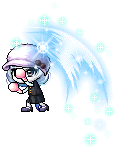
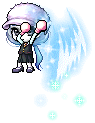
add bullet split

diff --git a/src/com/neuedu/maplestory/entity/Hero.java b/src/com/neuedu/maplestory/entity/Hero.java
@@ -3,8 +3,10 @@ package com.neuedu.maplestory.entity;
 import java.awt.Graphics;
 import java.awt.Image;
 import java.awt.event.KeyEvent;
+import java.util.Iterator;
 import java.util.LinkedList;
 import java.util.List;
+import java.util.Random;
 
 import com.neuedu.maplestory.client.MapleStoryClient;
 import com.neuedu.maplestory.constant.Constant;
@@ -222,15 +224,27 @@ public class Hero {
 		switch (this.dire) {
 		case left:
 			for (int i = 0; i < 3; i++) {
-				bullets.add(new Bullet(this.x, this.y, -Math.PI + Math.PI / 10 * i));
+				bullets.add(new Bullet(this.x, this.y, -Math.PI + Math.PI / 10 * (i - 1)));
 			}
 			break;
 		case right:
 			for (int i = 0; i < 3; i++) {
-				bullets.add(new Bullet(this.x + this.width * 2, this.y, -Math.PI / 10 * i));
+				bullets.add(new Bullet(this.x + this.width * 2, this.y, -Math.PI / 10 * (i - 1)));
 			}
 			break;
 		}
+	}
+
+	void shootSplit() {
+//		List<Bullet> temp = new LinkedList<>();
+		for (Bullet bullet : bullets) {
+			bullet.addAngle(Math.PI);
+		}
+//		temp.addAll(bullets);
+//		for (Bullet bullet : temp) {
+//			bullet.addAngle(Math.PI);
+//		}
+//		bullets.addAll(temp);
 	}
 
 	/**
@@ -246,9 +260,12 @@ public class Hero {
 	 * skill
 	 */
 	void skill() {
-		final int counts = 10;
+		final int counts = 18;
 		for (int i = 0; i <= counts; i++) {
-			bullets.add(new Bullet(ImageUtil.imgBullet.skill, this.x, this.y, -Math.PI / counts * i, 20));
+			bullets.add(new Bullet(ImageUtil.imgBullet.skill, this.x, this.y, -Math.PI * 2 / counts * i, 20));
+		}
+		if (new Random().nextInt(100) < Constant.SPLIT_P) {
+			shootSplit();
 		}
 	}
 
@@ -268,8 +285,14 @@ public class Hero {
 		}
 
 		count %= img.length;
-		g.drawImage(img[count], x - (img[count].getWidth(null) - this.width),
-				y - (img[count].getHeight(null) - this.height), null);
+		switch (this.dire) {
+		case left:
+			g.drawImage(img[count], x - (img[count].getWidth(null) - this.width),
+					y - (img[count].getHeight(null) - this.height), null);
+			break;
+		case right:
+			g.drawImage(img[count], x, y - (img[count].getHeight(null) - this.height), null);
+		}
 		count++;
 
 	}

diff --git a/src/com/neuedu/maplestory/entity/Bullet.java b/src/com/neuedu/maplestory/entity/Bullet.java
@@ -34,6 +34,18 @@ public class Bullet {
 	public Bullet() {
 		this(0, 0, 0);
 	}
+	
+	public Bullet(Bullet bullet){
+		this();
+		this.img = bullet.img;
+		this.x = bullet.x;
+		this.y = bullet.y;
+		this.width = bullet.width;
+		this.height = bullet.height;
+		this.angle = bullet.angle;
+		this.speed = bullet.speed;
+		this.die = bullet.die;
+	}
 
 	public void move() {
 		grow();
@@ -67,8 +79,12 @@ public class Bullet {
 		this.width += growSpeed;
 		this.height += growSpeed;
 	}
-
+	
 	public boolean Die() {
 		return die;
+	}
+	
+	public void addAngle(double angle){
+		this.angle += angle;
 	}
 }

diff --git a/src/com/neuedu/maplestory/constant/Constant.java b/src/com/neuedu/maplestory/constant/Constant.java
@@ -12,6 +12,6 @@ public class Constant {
 	public static final double G = 9.8;
 	public static final int HERO_SPEED = 15;
 	public static final int BULLET_SPEED = 30;
-	public static final int GROW_SPEED = 1;
-
+	public static final int GROW_SPEED = 0;
+	public static final int SPLIT_P = 100;
 }

diff --git a/src/com/neuedu/maplestory/util/ImageUtil.java b/src/com/neuedu/maplestory/util/ImageUtil.java
@@ -79,7 +79,7 @@ public class ImageUtil {
 		}
 		
 		static public class skill{
-			public static final int size = 3;
+			public static final int size = 6;
 
 			public static Image[] r = new Image[size];
 
